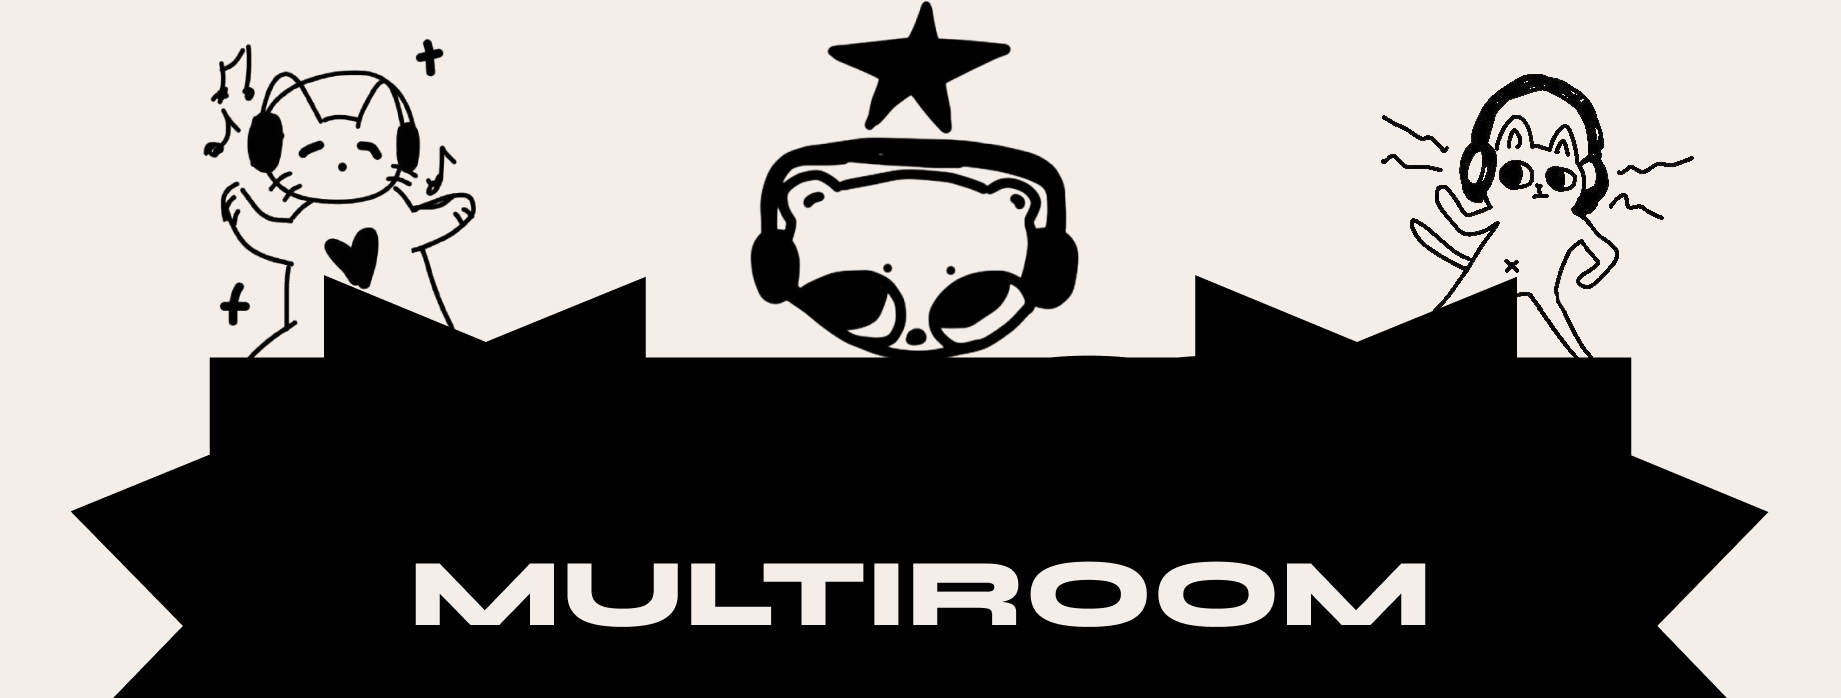
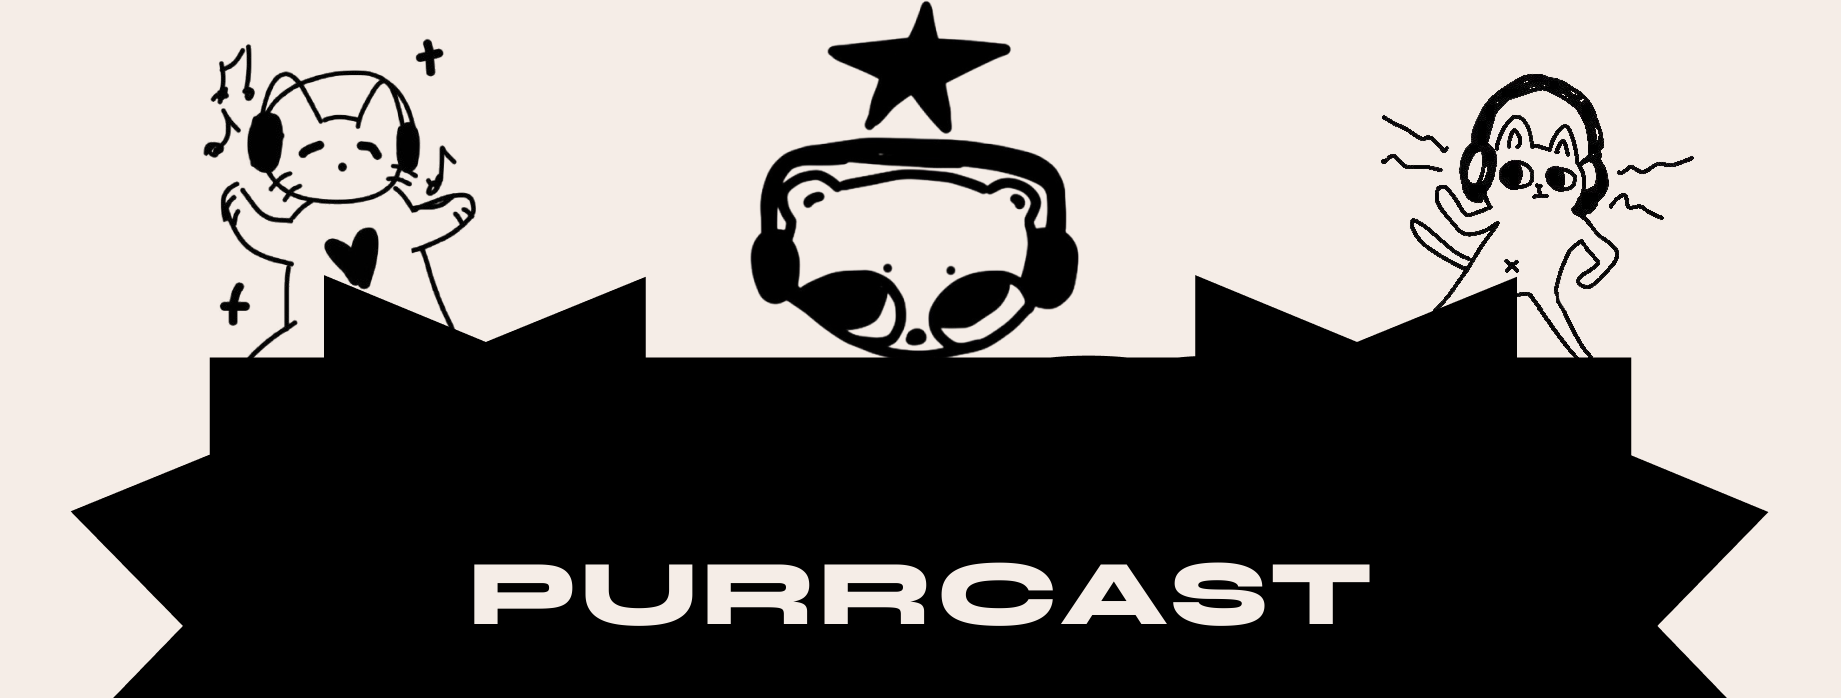
Rename the project to purrcast
"Multiroom" is the industry's word for the whole category of synchronised
whole-home audio, so it competes in search with Sonos and HEOS and says nothing
about this project in particular. The artwork already had a voice — cats in
headphones, black and white, Syne — and now the name shares it.

Renamed throughout: the binary and CMake project, the Go module path, the app
and window titles, the UI page, the CMake test flag, and the integration test
variables. The mDNS name goes with it: the address to hand a guest is
purrcast.local. The banner keeps its layout, redrawn in the same face at the
same cap height.

ServerModule matched the spawned process against the literal string "server",
which held only for a binary named exactly that — not for backend-go, which is
what the launcher actually starts. Take the name from the binary under test.

Rewrote the README around what the thing does for whoever reads it, and against
what the code actually does. Gone: an MIT badge with no licence, a table of
contents pointing at three sections that were never written, a release link to
the old account, and a macOS/Windows roadmap with not one line behind it. Said
plainly instead: master volume sets every speaker to the same level rather than
scaling them, the web UI has no tests, and the host needs PulseAudio or PipeWire.
Added what was there all along and unmentioned — the fingerprinting test rig,
mDNS, automatic ports, media-key metadata.

Changed region(s): [[0.2167, 0.7822, 0.774, 0.9026]]

diff --git a/web-react/src/pages/main/components/MainPage.tsx b/web-react/src/pages/main/components/MainPage.tsx
@@ -45,8 +45,8 @@ export const MainPage: React.FC = () => {
     const navigate = useNavigateWithQuery();
 
 
-    const [page, setPage] = useState("multiroom");
-    const paginator = useRef<Paginator>(new Paginator("multiroom", ["multiroom", "about"]));
+    const [page, setPage] = useState("purrcast");
+    const paginator = useRef<Paginator>(new Paginator("purrcast", ["purrcast", "about"]));
 
     const handleNavigate = (p: string): void => {
         paginator.current.setPage(p);
@@ -75,7 +75,7 @@ export const MainPage: React.FC = () => {
             }}
 
             content={
-                page == "multiroom" ? {
+                page == "purrcast" ? {
                     node: <Controls/>,
                     title: "CONTROLS"
                 } : page === "about" ? {

diff --git a/electron-app/src/index.ts b/electron-app/src/index.ts
@@ -25,7 +25,7 @@ const createWindow = async () => {
         height: 600,
         width: 800,
         icon: getIconPath(),
-        title: "Multiroom",
+        title: "Purrcast",
         titleBarOverlay: {
             color: "#fff",
         }
@@ -44,7 +44,7 @@ const createWindow = async () => {
         const url = `http://localhost:${port}/?electron=true`;
         log.info("Loading url: ", url)
         mainWindow.loadURL(url);
-        mainWindow.setTitle("Multiroom");
+        mainWindow.setTitle("Purrcast");
         mainWindow.setIcon(getIconPath());
     })
 };

diff --git a/electron-app/src/launcher.ts b/electron-app/src/launcher.ts
@@ -177,7 +177,7 @@ export class Launcher extends EventEmitter implements Launcher {
                 config: path.join(artifacts, "config", "snapserver.conf")
             },
             launcher: {
-                path: path.join(artifacts, "launcher-cpp", "bin", "multiroom")
+                path: path.join(artifacts, "launcher-cpp", "bin", "purrcast")
             },
             monitor: {
                 port: await this._portManager.allocate(),
@@ -193,7 +193,7 @@ export class Launcher extends EventEmitter implements Launcher {
                 static: path.join(process.resourcesPath, "static")
             },
             launcher: {
-                path: path.join(process.resourcesPath, "bin", "multiroom")
+                path: path.join(process.resourcesPath, "bin", "purrcast")
             },
             snapclient: {
                 path: path.join(process.resourcesPath, "bin", "snapclient")

diff --git a/electron-app/src/index.html b/electron-app/src/index.html
@@ -2,7 +2,7 @@
 <html>
 <head>
     <meta charset="UTF-8"/>
-    <title>Multiroom</title>
+    <title>Purrcast</title>
 </head>
 <body>
 <div id="root" class="relative">

diff --git a/web-react/src/constants/storage.ts b/web-react/src/constants/storage.ts
@@ -1,1 +1,1 @@
-export const APP_NAME: string = "MULTIROOM"
+export const APP_NAME: string = "PURRCAST"

diff --git a/launcher-cpp/tests/ServerModuleTests.cpp b/launcher-cpp/tests/ServerModuleTests.cpp
@@ -10,7 +10,7 @@
 class ServerModule : public needs_external_binary
 {
 protected:
-    ServerModule(): needs_external_binary("MULTIROOM_SERVER_BINARY")
+    ServerModule(): needs_external_binary("PURRCAST_SERVER_BINARY")
     {
     }
 
@@ -36,12 +36,13 @@ protected:
         return params(port_);
     }
 
-    static bool server_process_running()
+    bool server_process_running() const
     {
+        const std::string name = std::filesystem::path(binary_).filename().string();
         std::vector<ProcessInfoDescription> processes = process_info::list();
-        return std::any_of(processes.begin(), processes.end(), [](const ProcessInfoDescription& desc)
+        return std::any_of(processes.begin(), processes.end(), [&name](const ProcessInfoDescription& desc)
         {
-            return desc.cmd == "server";
+            return desc.cmd == name;
         });
     }
 

diff --git a/backend-go/server.go b/backend-go/server.go
@@ -3,11 +3,11 @@ package main
 import (
 	"flag"
 	"log"
-	"multiroom/backend-go/http"
-	"multiroom/backend-go/mdns"
-	"multiroom/backend-go/utility"
 	"os"
 	"path/filepath"
+	"purrcast/backend-go/http"
+	"purrcast/backend-go/mdns"
+	"purrcast/backend-go/utility"
 )
 
 func main() {
@@ -31,7 +31,7 @@ func main() {
 		log.Fatalf("static_dir is not a directory: %s", absStaticDir)
 	}
 
-	host := "multiroom"
+	host := "purrcast"
 	iface, ip := utility.GetExternalInterface()
 	if ip == nil {
 		log.Print("No external network interface; clients on other devices will not reach this host")

diff --git a/backend-go/http/server.go b/backend-go/http/server.go
@@ -3,10 +3,10 @@ package http
 import (
 	"fmt"
 	"log"
-	"multiroom/backend-go/http/api/config"
-	"multiroom/backend-go/http/websocket"
-	"multiroom/backend-go/hub"
 	"net/http"
+	"purrcast/backend-go/http/api/config"
+	"purrcast/backend-go/http/websocket"
+	"purrcast/backend-go/hub"
 )
 
 func StartHTTPServer(httpPort int, monitorPort int, host string, externalAddress string, staticDir string) {

diff --git a/backend-go/http/websocket/websocket.go b/backend-go/http/websocket/websocket.go
@@ -2,10 +2,10 @@ package websocket
 
 import (
 	"encoding/json"
-	"multiroom/backend-go/hub"
-	"multiroom/backend-go/message"
-	"multiroom/backend-go/utility"
 	"net/http"
+	"purrcast/backend-go/hub"
+	"purrcast/backend-go/message"
+	"purrcast/backend-go/utility"
 
 	"github.com/gorilla/websocket"
 )

diff --git a/backend-go/mdns/mdns.go b/backend-go/mdns/mdns.go
@@ -9,11 +9,11 @@ import (
 
 func RegisterMDNS(iface net.Interface, ip net.IP, httpPort int) (*zeroconf.Server, error) {
 	server, err := zeroconf.RegisterProxy(
-		"multiroom",
+		"purrcast",
 		"_http._tcp",
 		"local.",
 		httpPort,
-		"multiroom",
+		"purrcast",
 		[]string{ip.String()},
 		nil,
 		[]net.Interface{iface},
@@ -21,6 +21,6 @@ func RegisterMDNS(iface net.Interface, ip net.IP, httpPort int) (*zeroconf.Serve
 	if err != nil {
 		return nil, err
 	}
-	log.Printf("mDNS service running: multiroom.local:%d", httpPort)
+	log.Printf("mDNS service running: purrcast.local:%d", httpPort)
 	return server, nil
 }

diff --git a/backend-go/http/api/config/config_test.go b/backend-go/http/api/config/config_test.go
@@ -2,9 +2,9 @@ package config
 
 import (
 	"encoding/json"
-	"multiroom/backend-go/hub"
 	"net/http"
 	"net/http/httptest"
+	"purrcast/backend-go/hub"
 	"testing"
 )
 
@@ -14,7 +14,7 @@ func configuration() hub.Configuration {
 		Snapserver: hub.SnapserverConfig{Ports: hub.SnapserverPorts{Http: 1780, Stream: 1704, Control: 1705}},
 		Websocket:  hub.WebsocketConfig{Path: "/ws", Port: 5000},
 		Monitor:    hub.MonitorConfig{Port: 5001},
-		Host:       hub.HostConfig{Hostname: "multiroom", Address: "192.168.0.10", Port: 5000},
+		Host:       hub.HostConfig{Hostname: "purrcast", Address: "192.168.0.10", Port: 5000},
 	}
 }
 

diff --git a/launcher-cpp/tests/SnapserverModuleTests.cpp b/launcher-cpp/tests/SnapserverModuleTests.cpp
@@ -8,7 +8,7 @@
 class SnapserverModule : public needs_external_binary
 {
 protected:
-    SnapserverModule(): needs_external_binary("MULTIROOM_SNAPSERVER_BINARY")
+    SnapserverModule(): needs_external_binary("PURRCAST_SNAPSERVER_BINARY")
     {
     }
 
@@ -16,7 +16,7 @@ protected:
     {
         settings::s_module::s_snapserver params;
         params.path_to_binary = binary_;
-        params.config = TestData::from_environment("MULTIROOM_SNAPSERVER_CONFIG");
+        params.config = TestData::from_environment("PURRCAST_SNAPSERVER_CONFIG");
         return params;
     }
 